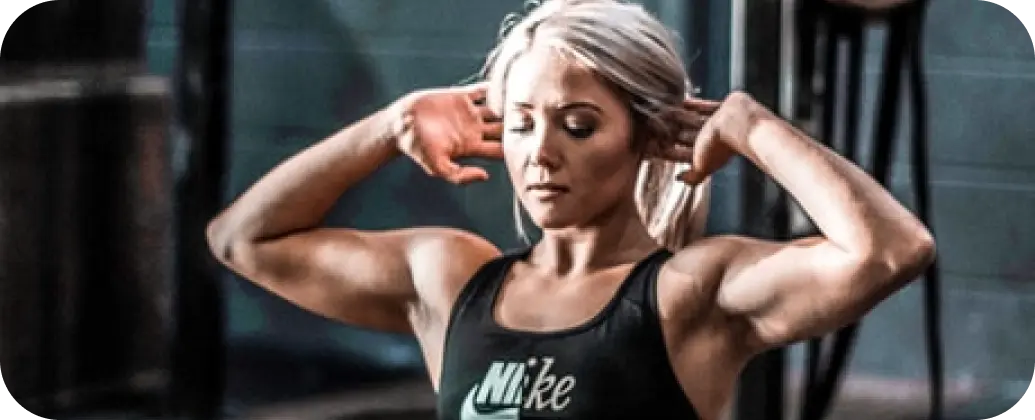
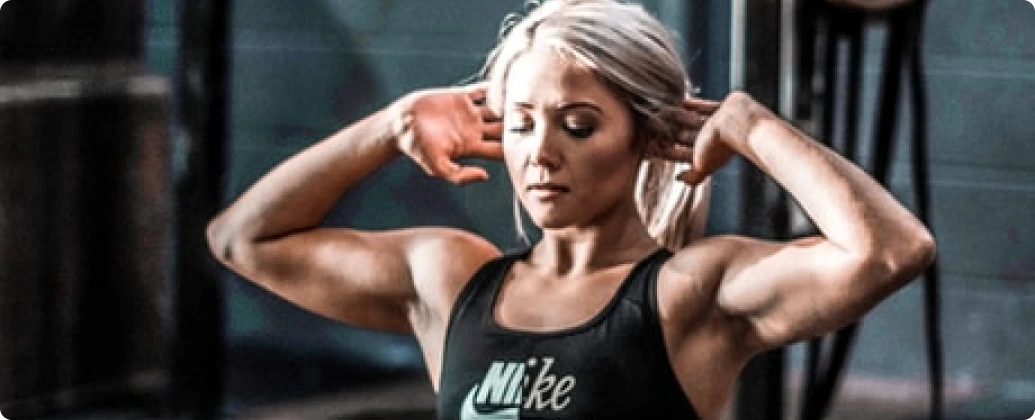
마진값 수정, 미션페이지 수정

diff --git a/src/components/MissionPage/AddPhoto.jsx b/src/components/MissionPage/AddPhoto.jsx
@@ -3,7 +3,7 @@ import { useNavigate, useParams } from "react-router-dom";
 import { useCallback } from "react";
 import AlertComponent from "components/Common/AlertComponent";
 import flex from "components/Common/flex";
-import Camera from "assets/img/Camera.webp";
+import Camera from "assets/img/Camera2.webp";
 import styled from "@emotion/styled";
 import apis from "shared/api/main";
 
@@ -64,8 +64,8 @@ const StWrap = styled.div`
   ${flex({ justify: "space-between" })}
   width: 345px;
   height: 105px;
-  background: #f9f9f9;
-  border-radius: 20px;
+  background: #454545;
+  border-radius: 4px;
   margin-bottom: 8px;
   border: none;
   .innerDiv {
@@ -79,7 +79,7 @@ const StWrap = styled.div`
       font-weight: 600;
       font-size: 24px;
       line-height: 29px;
-      color: #454545;
+      color: #ffffff;
       white-space: pre-wrap;
     }
   }

diff --git a/src/components/MissionPage/AddedMission.jsx b/src/components/MissionPage/AddedMission.jsx
@@ -21,7 +21,7 @@ const AddedMission = ({ missionContent, missionId }) => {
       ) : (
         <StWrap>
           <div className="innerDiv">
-            <span className="missionContent">{missionContent}</span>
+            <span className="missionSpan">{missionContent}</span>
             <label htmlFor="file">
               <StImg img={Camera} />
             </label>
@@ -53,15 +53,15 @@ const StWrap = styled.div`
   width: 345px;
   height: 105px;
   background: #f9f9f9;
-  border-radius: 20px;
+  border-radius: 4px;
   margin-bottom: 8px;
   border: none;
   .innerDiv {
     ${flex({ justify: "space-around" })}
     width: 100%;
     height: 100%;
-    .missionContent {
-      width: 168px;
+    .missionSpan {
+      width: 65%;
       margin-left: 40px;
       font-style: normal;
       font-weight: 600;

diff --git a/src/components/MainPage/CategoryLink.jsx b/src/components/MainPage/CategoryLink.jsx
@@ -27,7 +27,6 @@ const StCategoryDiv = styled.div`
   width: 345px;
   height: 140px;
   margin-bottom: 8px;
-  border-radius: 11px;
   background-size: cover;
   background-position: center;
   background-image: url(${(props) => handlePictureProps(props.pic)});
